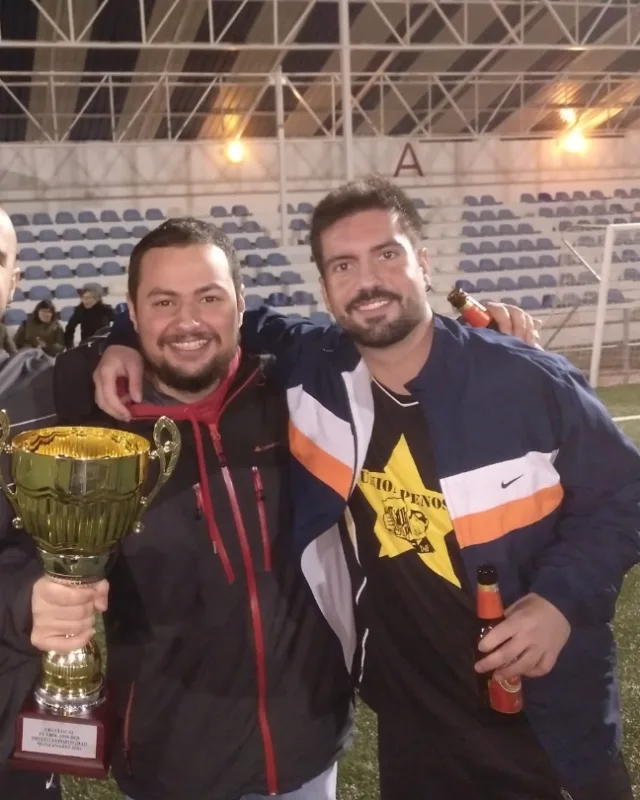
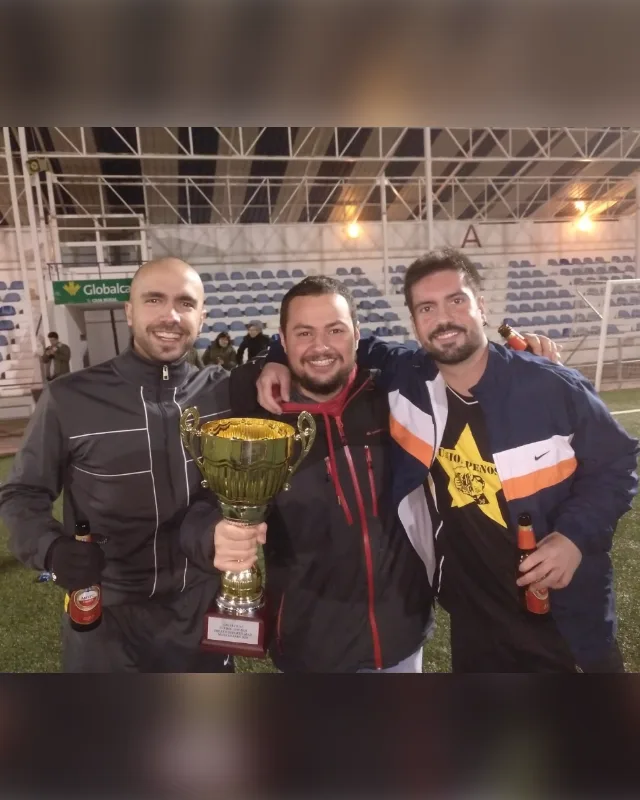
Add files via upload

diff --git a/index.html b/index.html
@@ -475,7 +475,7 @@ async function cargar() {
 }
 
 // Retratos definitivos guardados en la propia web (carga rápida e igual para todos)
-const RETRATOS_V = {richi: 2};
+const RETRATOS_V = {richi: 3, sonia: 2};
 const RETRATOS_FIJOS = new Set(["richi","consuheladillo","aitor","shere","fran","bea","edu","patri","carlos","mario","cani","chechu","manuelmolada","pablo","sonia"]);
 function srcRetrato(s, n) {
   if (s.retrato !== 'demo' && RETRATOS_FIJOS.has(normN(s.nombre))) return '/r-' + normN(s.nombre) + '.webp?v=' + (RETRATOS_V[normN(s.nombre)] || 1);
